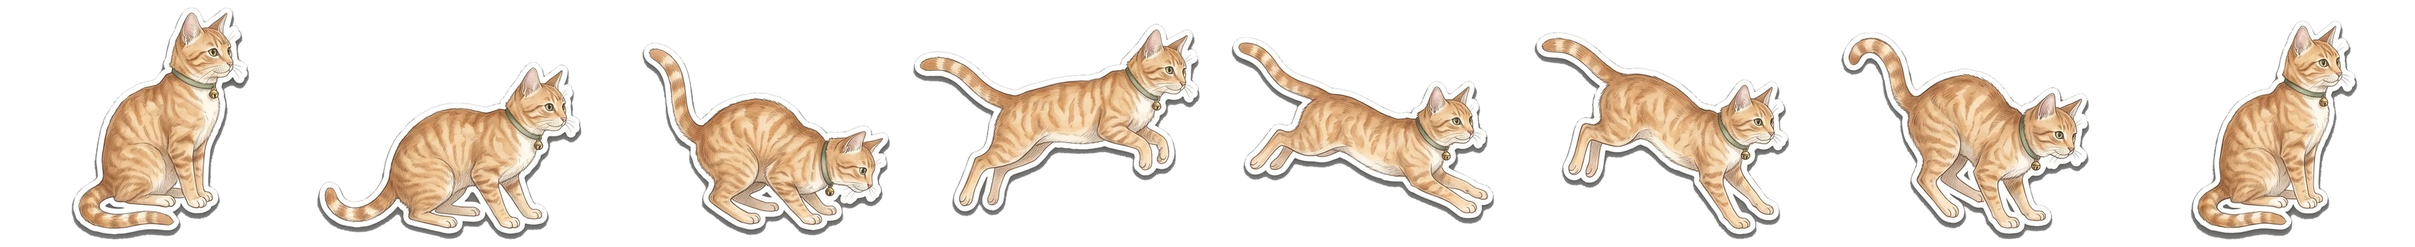
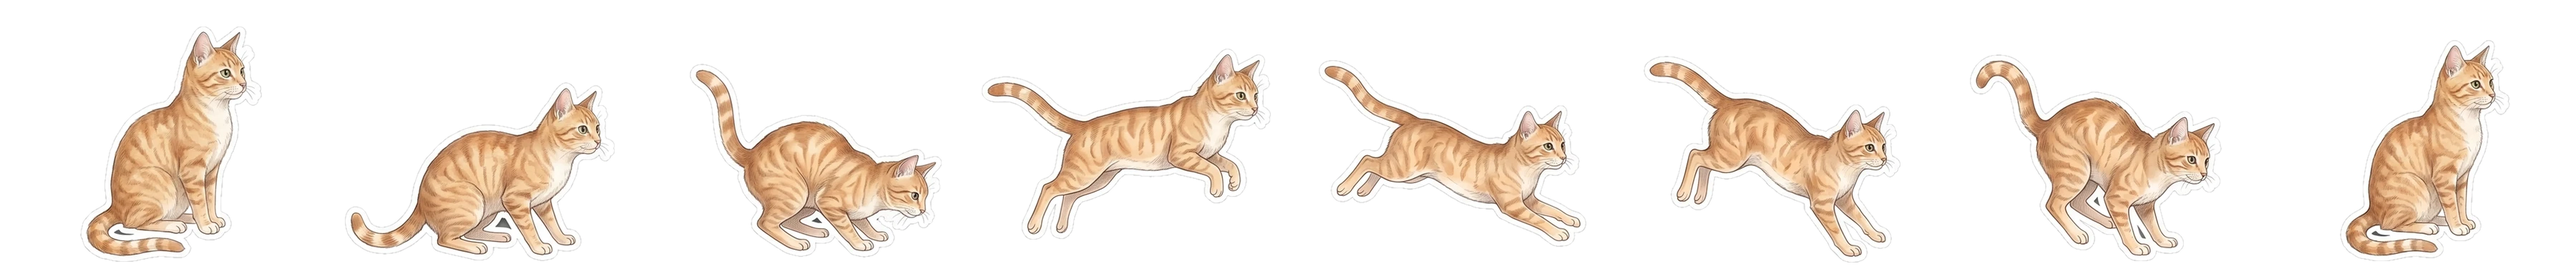
feat(world): repaint Marmalade and make her bell collar her first outfit
Marmalade's sage-green bell collar was painted into her base art, like the
other friends' signature pieces. Her sitting sticker is repainted
collar-free and her five outfits are repainted on the clean base. The
collar becomes a neck item (sage-collar) with its own look, idle and hop,
and a standalone wardrobe sticker (wardrobe-suites/cat/sage-collar.png),
listed first in suits.json. It sits where the red bell collar does, so it
shares that anchor in wardrobe-anchors.json. export-wardrobe.py and
export-looks.py regenerate wardrobe.json and looks.json.

The idle is drawn from the approved still with the shipped gestures (sniff,
ear turn, blink, head tilt), so only her head changes between frames. The
hop keeps the shipped poses with the collar removed. Every outfit is
painted on those.

The idle cell grows from 291x366 to 321x400 and the hop cell from 422x346
to 450x376, with the feet moved to match, so she stays the same size on
the path. The sitting stickers share a new 364x480 canvas with headroom
for hats, and her wardrobe anchors are moved onto it.

The sage collar is her starting item. Tests that needed a friend with no
starting item now use Barnacle.

diff --git a/HopTalesPackage/Tests/AppFeatureTests/WardrobeTests.swift b/HopTalesPackage/Tests/AppFeatureTests/WardrobeTests.swift
@@ -11,45 +11,45 @@ struct WardrobeFeatureTests {
   nonisolated private static var progress: Content.Progress {
     var basket = Basket()
     basket.filled = 4
-    return Content.Progress(journey: Journey(starting: .cat), baskets: [.cat: basket])
+    return Content.Progress(journey: Journey(starting: .crab), baskets: [.crab: basket])
   }
 
   @Test func everyItemIsInOneGridAndTappingSwapsTheLook() async {
     let saved = LockIsolated(Self.progress)
-    let store = TestStore(initialState: Wardrobe.State(friend: .cat)) {
+    let store = TestStore(initialState: Wardrobe.State(friend: .crab)) {
       Wardrobe()
         .dependency(ProgressStore(load: { saved.value }, save: { saved.setValue($0) }))
     } changes: {
       $0.progress = Self.progress
     }
-    let items = WardrobeLibrary.items(for: .cat)
+    let items = WardrobeLibrary.items(for: .crab)
     #expect(store.state.items == items)
 
     store.send(.itemTapped(items[0])) {
-      $0.progress.outfits[.cat] = [items[0].slot: items[0].id]
+      $0.progress.outfits[.crab] = [items[0].slot: items[0].id]
     }
     store.send(.itemTapped(items[1])) {
-      $0.progress.outfits[.cat] = [items[1].slot: items[1].id]
+      $0.progress.outfits[.crab] = [items[1].slot: items[1].id]
     }
-    #expect(saved.value.outfit(for: .cat) == [items[1]])
+    #expect(saved.value.outfit(for: .crab) == [items[1]])
     await store.dismount()
   }
 
   @Test func tappingTheWornItemOrJustMeTakesTheLookOff() async {
     let saved = LockIsolated(Self.progress)
-    let store = TestStore(initialState: Wardrobe.State(friend: .cat)) {
+    let store = TestStore(initialState: Wardrobe.State(friend: .crab)) {
       Wardrobe()
         .dependency(ProgressStore(load: { saved.value }, save: { saved.setValue($0) }))
     } changes: {
       $0.progress = Self.progress
     }
-    let item = WardrobeLibrary.items(for: .cat)[0]
+    let item = WardrobeLibrary.items(for: .crab)[0]
 
-    store.send(.itemTapped(item)) { $0.progress.outfits[.cat] = [item.slot: item.id] }
-    store.send(.itemTapped(item)) { $0.progress.outfits[.cat] = [:] }
-    store.send(.itemTapped(item)) { $0.progress.outfits[.cat] = [item.slot: item.id] }
-    store.send(.justMeTapped) { $0.progress.outfits[.cat] = [:] }
-    #expect(saved.value.outfit(for: .cat).isEmpty)
+    store.send(.itemTapped(item)) { $0.progress.outfits[.crab] = [item.slot: item.id] }
+    store.send(.itemTapped(item)) { $0.progress.outfits[.crab] = [:] }
+    store.send(.itemTapped(item)) { $0.progress.outfits[.crab] = [item.slot: item.id] }
+    store.send(.justMeTapped) { $0.progress.outfits[.crab] = [:] }
+    #expect(saved.value.outfit(for: .crab).isEmpty)
     await store.dismount()
   }
 
@@ -146,6 +146,27 @@ struct WardrobeFeatureTests {
     #expect(saved.value.outfit(for: .crow) == [flatCap])
     store.send(.justMeTapped) { $0.progress.outfits[.crow] = [:] }
     #expect(saved.value.outfit(for: .crow).isEmpty)
+    await store.dismount()
+  }
+
+  @Test func marmaladeWearsHerSageCollarUntilSomethingElseIsChosen() async throws {
+    let fresh = Content.Progress(journey: Journey(starting: .cat))
+    let saved = LockIsolated(fresh)
+    let store = TestStore(initialState: Wardrobe.State(friend: .cat)) {
+      Wardrobe()
+        .dependency(ProgressStore(load: { saved.value }, save: { saved.setValue($0) }))
+    } changes: {
+      $0.progress = fresh
+    }
+    let items = WardrobeLibrary.items(for: .cat)
+    let collar = try #require(items.first { $0.id == "sage-collar" })
+    let hat = try #require(items.first { $0.id == "garden-hat" })
+    #expect(store.state.outfit == [collar])
+
+    store.send(.itemTapped(hat)) { $0.progress.outfits[.cat] = [.head: hat.id] }
+    #expect(saved.value.outfit(for: .cat) == [hat])
+    store.send(.justMeTapped) { $0.progress.outfits[.cat] = [:] }
+    #expect(saved.value.outfit(for: .cat).isEmpty)
     await store.dismount()
   }
 }

diff --git a/HopTalesPackage/Tests/ContentTests/WardrobeTests.swift b/HopTalesPackage/Tests/ContentTests/WardrobeTests.swift
@@ -10,16 +10,17 @@ struct WardrobeTests {
     }
   }
 
-  @Test func everyFriendUnlocksFiveOfTheirWardrobeAndTheFirstFourStartWithAnother() {
+  @Test func everyFriendUnlocksFiveOfTheirWardrobeAndTheFirstFiveStartWithAnother() {
     #expect(WardrobeLibrary.all[.hare]?.count == 13)
     #expect(WardrobeLibrary.all[.bunny]?.count == 9)
     #expect(WardrobeLibrary.all[.frog]?.count == 9)
     #expect(WardrobeLibrary.all[.crow]?.count == 9)
+    #expect(WardrobeLibrary.all[.cat]?.count == 9)
     for friend in Friend.allCases {
       let starts = WardrobeLibrary.starting[friend] != nil
       #expect(WardrobeLibrary.items(for: friend).count == (starts ? 6 : 5), "\(friend)")
       #expect(WardrobeLibrary.unlockable(for: friend).count == 5, "\(friend)")
-      if ![Friend.hare, .bunny, .frog, .crow].contains(friend) {
+      if ![Friend.hare, .bunny, .frog, .crow, .cat].contains(friend) {
         #expect(WardrobeLibrary.all[friend]?.count == 8, "\(friend)")
       }
     }
@@ -36,22 +37,23 @@ struct WardrobeTests {
   }
 
   @Test func onlyUnlockedItemsCanBeWornAndOneItemPerSlot() throws {
-    var progress = Progress(journey: Journey(starting: .cat))
-    let items = WardrobeLibrary.items(for: .cat)
-    progress.wear(items[1], on: .cat)
-    #expect(progress.outfit(for: .cat).isEmpty)
-    progress.wear(items[0], on: .cat)
-    #expect(progress.outfit(for: .cat) == [items[0]])
-    progress.baskets[.cat, default: Basket()].filled = 1
-    progress.wear(items[1], on: .cat)
-    #expect(progress.outfit(for: .cat) == [items[1]])
-    progress.takeOff(items[1].slot, from: .cat)
-    #expect(progress.outfit(for: .cat).isEmpty)
+    var progress = Progress(journey: Journey(starting: .crab))
+    let items = WardrobeLibrary.items(for: .crab)
+    progress.wear(items[1], on: .crab)
+    #expect(progress.outfit(for: .crab).isEmpty)
+    progress.wear(items[0], on: .crab)
+    #expect(progress.outfit(for: .crab) == [items[0]])
+    progress.baskets[.crab, default: Basket()].filled = 1
+    progress.wear(items[1], on: .crab)
+    #expect(progress.outfit(for: .crab) == [items[1]])
+    progress.takeOff(items[1].slot, from: .crab)
+    #expect(progress.outfit(for: .crab).isEmpty)
   }
 
   @Test(arguments: [
     (Friend.bunny, "bow", Slot.head), (.hare, "scarf", .neck), (.frog, "neckerchief", .neck),
-    (.crow, "knit-cap", .head)
+    (.crow, "knit-cap", .head),
+    (.cat, "sage-collar", .neck)
   ])
   func startingItemsAreWornUntilSomethingElseIsChosen(
     friend: Friend, id: String, slot: Slot
@@ -64,8 +66,8 @@ struct WardrobeTests {
     let fresh = Progress()
     #expect(fresh.isUnlocked(item, for: friend))
     #expect(fresh.outfit(for: friend) == [item])
-    #expect(WardrobeLibrary.startingItem(for: .cat) == nil)
-    #expect(Progress(journey: Journey(starting: .cat)).outfit(for: .cat).isEmpty)
+    #expect(WardrobeLibrary.startingItem(for: .crab) == nil)
+    #expect(Progress(journey: Journey(starting: .crab)).outfit(for: .crab).isEmpty)
   }
 
   @Test func startingItemsLeaveTheUnlockOrderAlone() throws {

diff --git a/HopTalesPackage/Sources/Content/Wardrobe.swift b/HopTalesPackage/Sources/Content/Wardrobe.swift
@@ -61,7 +61,7 @@ public enum WardrobeLibrary {
     .bunny: ["bow", "bluebell-crown", "bonnet", "heart-glasses", "daisy-chain", "basket-pack"],
     .frog: ["neckerchief", "lilypad-hat", "goggles", "check-bowtie", "reed-satchel", "raincoat"],
     .crow: ["knit-cap", "flat-cap", "top-hat", "aviator-goggles", "autumn-scarf", "post-satchel"],
-    .cat: ["garden-hat", "beret", "cateye-glasses", "red-bell-collar", "cardigan"],
+    .cat: ["sage-collar", "garden-hat", "beret", "cateye-glasses", "red-bell-collar", "cardigan"],
     .crab: ["sailor-cap", "captain-hat", "diving-mask", "claw-mittens", "chest-pack"],
     .grasshopper: [
       "acorn-cap", "antenna-poms", "explorer-goggles", "clover-bowtie", "ladybird-cape"
@@ -69,7 +69,8 @@ public enum WardrobeLibrary {
   ]
 
   public static let starting: [Friend: String] = [
-    .bunny: "bow", .hare: "scarf", .frog: "neckerchief", .crow: "knit-cap"
+    .bunny: "bow", .hare: "scarf", .frog: "neckerchief", .crow: "knit-cap",
+    .cat: "sage-collar"
   ]
 
   @TaskLocal public static var painted: [Friend: Set<String>] = {

diff --git a/HopTalesPackage/Sources/World/HareArt.swift b/HopTalesPackage/Sources/World/HareArt.swift
@@ -102,10 +102,10 @@ public struct SpriteSheet: Equatable, Sendable {
     ),
     .cat: (
       .idle(
-        "cat-idle-frames", cell: CGSize(width: 291, height: 366), feet: CGPoint(x: 150, y: 355)
+        "cat-idle-frames", cell: CGSize(width: 321, height: 400), feet: CGPoint(x: 156, y: 389)
       ),
       .hop(
-        "cat-hop", cell: CGSize(width: 422, height: 346), feet: CGPoint(x: 182, y: 335),
+        "cat-hop", cell: CGSize(width: 450, height: 376), feet: CGPoint(x: 196, y: 365),
         standing: 305
       )
     ),
